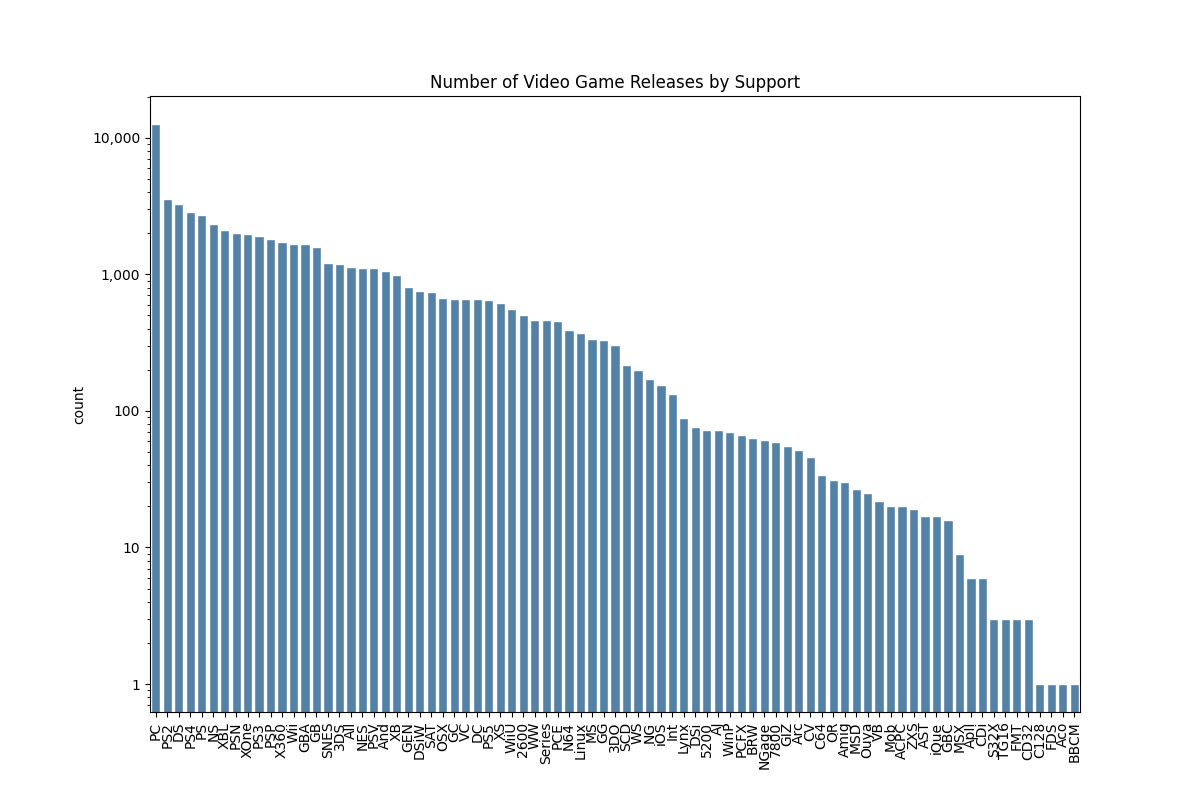
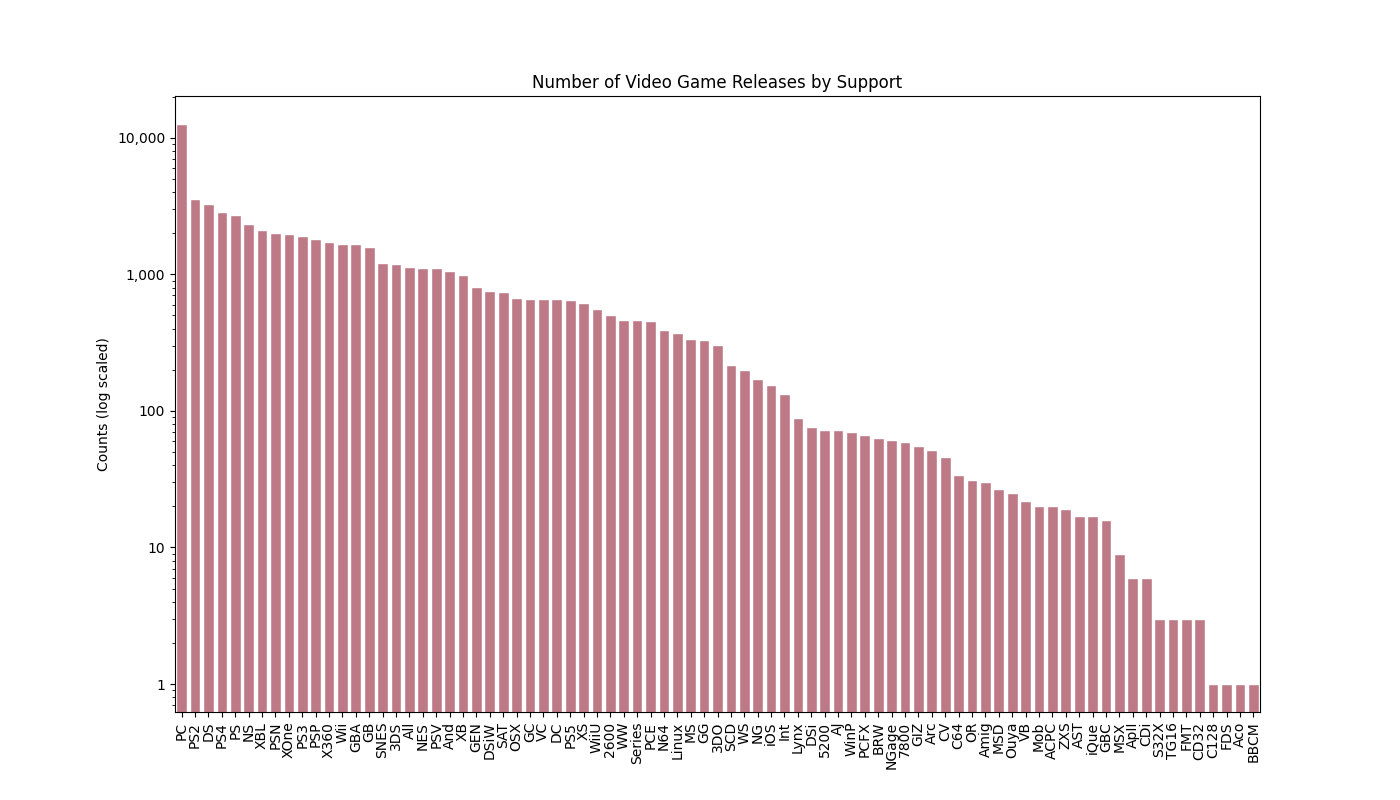
Add 2_Explore.py and add plots for J2 Carousel. Add 07/01/2024 Post on readme.

Changed region(s): [[0.0617, 0.1562, 0.925, 0.9688], [0.3392, 0.0938, 0.6783, 0.125]]

diff --git a/2_Explore.py b/2_Explore.py
@@ -1,5 +1,3 @@
-import os
-
 import pandas as pd
 import numpy as np
 import matplotlib
@@ -17,18 +15,18 @@ df = pd.read_feather('data/working/1_Structure.output.feather')
 numeric_df = df.select_dtypes(include=['float64'])
 
 # Create subplots for the boxplots, with 2 rows and 4 columns
-fig1, ax1 = plt.subplots(nrows=2, ncols=4, figsize=(16, 8))
-ax1 = ax1.flatten()  # Flatten the 2D array of axes to make it easier to iterate over. It allows us to avoid use of nested loop.
+fig3, ax3 = plt.subplots(nrows=3, ncols=3, figsize=(8, 8))
+ax3 = ax3.flatten()  # Flatten the 2D array of axes to make it easier to iterate over. It avoids the use of nested loop.
 
 # Loop through each numeric column and create a boxplot
 for i, col in enumerate(numeric_df.columns):
-    sns.boxplot(y=numeric_df[col], ax=ax1[i])
-    ax1[i].set_title(f"{col.split('_')[0].upper() + ' ' + col.split('_')[1].upper()}")
-    ax1[i].set_ylabel('')
+    sns.boxplot(y=numeric_df[col], ax=ax3[i])
+    ax3[i].set_title(f"{col.split('_')[0].upper() + ' ' + col.split('_')[1].upper()}")
+    ax3[i].set_ylabel('')
 
 # If there are more subplots than columns, remove the empty subplots
-for j in range(i + 1, len(ax1)):
-    fig1.delaxes(ax1[j])
+for j in range(i + 1, len(ax3)):
+    fig3.delaxes(ax3[j])
 
 # Adjust the layout to prevent overlapping subplots
 plt.tight_layout()
@@ -38,25 +36,60 @@ plt.savefig('./fig/3_Boxplot_numeric_variables.png')
 plt.show()
 
 # Distribution of release_year variable
-fig2, ax2 = plt.subplots()
-sns.histplot(x=df['release_year'], ax=ax2, binwidth=1, color='steelblue', edgecolor='white')
+fig4, ax4 = plt.subplots(figsize=(14, 8))
+sns.histplot(x=df['release_year'], ax=ax4, binwidth=1, color='steelblue', edgecolor='white')
 plt.title('Evolution of Video Game Releases Over Time')
-ax2.set_xlabel('Release Years')
+ax4.set_xlabel('Release Years')
 
 # Save the figure to a file / display the plot
 plt.savefig('./fig/4_Distribution_release_over_time.png')
 plt.show()
 
 # Count of console variable
-fig3, ax3 = plt.subplots(figsize=(12, 8))
-sns.countplot(x=df['console'], ax=ax3, color='steelblue', edgecolor='white',
+fig5, ax5 = plt.subplots(figsize=(14, 8))
+sns.countplot(x=df['console'], ax=ax5, color='#c86f7f', edgecolor='white',
               order=df['console'].value_counts().sort_values(ascending=False).index)
 plt.yscale('log')
 plt.gca().yaxis.set_major_formatter(ticker.FuncFormatter(lambda x, _: '{:,.0f}'.format(x)))
 plt.xticks(rotation=90)
 plt.title('Number of Video Game Releases by Support')
-ax3.set_xlabel('')
+ax5.set_xlabel('')
+ax5.set_ylabel('Counts (log scaled)')
 
 # Save the figure to a file / display the plot
 plt.savefig('./fig/5_Number_of_games_by_support.png')
 plt.show()
+
+# Sales by console (top15)
+top15_consoles = df.groupby('console')['total_sales'].sum().nlargest(15)
+pc_highlight_palette = np.where(top15_consoles.index == 'PC', '#c86f7f', 'steelblue')
+fig6, ax6 = plt.subplots(figsize=(12, 8))
+sns.barplot(y=top15_consoles, x=top15_consoles.index, palette=pc_highlight_palette, edgecolor='white')
+plt.xticks(rotation=90)
+plt.title('Sales by console (Top 15)')
+ax6.set_xlabel('')
+ax6.set_ylabel('Total Sales')
+
+# Save the figure to a file / display the plot
+plt.savefig('./fig/6_Top15_Sales_by_support.png')
+plt.show()
+
+# Count of genre variable
+fig7, ax7 = plt.subplots(figsize=(12, 8))
+sns.countplot(x=df['genre'], ax=ax7, color='steelblue', edgecolor='white',
+              order=df['genre'].value_counts().sort_values(ascending=False).index)
+plt.yscale('log')
+plt.gca().yaxis.set_major_formatter(ticker.FuncFormatter(lambda x, _: '{:,.0f}'.format(x)))
+plt.xticks(rotation=90)
+plt.title('Number of Video Game Releases by Genre')
+ax7.set_xlabel('')
+ax7.set_ylabel('Counts (log scaled)')
+
+# Save the figure to a file / display the plot
+plt.savefig('./fig/7_Number_of_games_by_genre.png')
+plt.show()
+
+# Okay then, we have a lot of information yet. We can see that we have a lot of missing values.
+# It will be a bit problematic but not yet. We see that PC are overrepresented in the dataset, and most games recorded
+# where released in 2009. We show also that even if PC are the support with the most released games, it's only at
+# the 12th position of sales by support.

diff --git a/1_Structure.py b/1_Structure.py
@@ -15,9 +15,6 @@ df = pd.read_csv('./data/raw/vgchartz-2024.csv')
 df['release_date'] = pd.to_datetime(df['release_date'])
 df['last_update'] = pd.to_datetime(df['last_update'])
 
-# Datetime could be informative, but they are not very easy to manipulate with, we will create a column keeping only release year
-df['release_year'] = df['release_date'].dt.year.astype('float64')
-
 # Get some information about our dataset
 df.info()
 df.describe()
@@ -34,7 +31,7 @@ ax1.pie(eda_df['type'].value_counts(),
         labels=eda_df['type'].value_counts().index.tolist(),
         colors=['lightsteelblue', 'turquoise', 'thistle'],
         wedgeprops={'linewidth': 2, 'edgecolor': 'white'},
-        autopct='%1.1f%%')
+        autopct='%1.4f%%')
 plt.title('Proportion of types in the dataset')
 plt.savefig('./fig/1_PieChartVariable.png')
 plt.show()
@@ -48,6 +45,9 @@ plt.show()
 
 # The img column is useless for our analyse
 df = df.drop(columns=['img'])
+
+# Datetime could be informative, but they are not very easy to manipulate with, we will create a column keeping only release year
+df['release_year'] = df['release_date'].dt.year.astype('float64')
 
 # Save work
 df.to_feather('./data/working/1_Structure.output.feather')

diff --git a/README.md b/README.md
@@ -10,6 +10,40 @@
 
 ---
 
+## 01/07/2024
+
+🎮 Jour 2 de notre aventure data dans l'univers des jeux vidéo ! 📊
+
+Aujourd'hui, plongeons dans la visualisation et l'exploration initiale de notre dataset VGSales 2024. Voici mes découvertes passionnantes :
+
+1⃣ Visualisation : J'ai transformé nos données brutes en graphiques parlants. Un vrai changement de perspective ! Ces visualisations nous offrent déjà des informations précieuses avant même l'analyse approfondie.
+
+2⃣ Types de variables : Notre dataset est un cocktail fascinant de variables discrètes (6/14), continues (6/14) et de dates (2/14). Une richesse à explorer, mais qui apporte son lot de défis !
+
+3⃣ Valeurs manquantes : Alerte ! Beaucoup d'entrées incomplètes. Un vrai casse-tête pour notre analyse future. Certaines s'expliquent (pas de mises à jour pour les jeux anciens), mais attention aux biais potentiels !
+
+4⃣ Focus sur les chiffres : 
+- Les boxplots donnent un aperçu global, mais les histogrammes révèlent les vraies pépites :
+    - 2009 : l'année record pour les sorties de jeux !
+    - Le PC, champion du nombre de titres, mais... 
+
+🤔 Surprise du chef ! En termes de ventes totales, le PC n'est qu'à la 12ème place ! Comment expliquer ce paradoxe ?
+
+Mes hypothèses :
+- Les valeurs manquantes font-elles des siennes ?
+- Une source majeure manquante (Steam, on te voit) ?
+- Les jeux PC : nombreux mais pas des best-sellers ?
+
+À vous de jouer ! Quelle est votre théorie ? 
+
+Partagez vos idées en commentaire. Ensemble, déchiffrons ce mystère vidéoludique ! 💡
+
+#DataScience #JeuxVidéo #AnalyseDeDonnées #Python #DataViz
+
+P.S. : Likez et partagez pour agrandir notre communauté de data-gamers passionnés ! 🚀
+
+P.P.S. : Curieux de voir les coulisses ? Le code de cette analyse est 100% dispo sur GitHub ! Rendez-vous juste ici ➡ https://github.com/martin-jeremy/public-vgs-analysis
+
 ## 26/06/2024
 
 🎮 C'est parti pour notre aventure data ! Plongeons dans le monde fascinant des jeux vidéo ! 🕹
